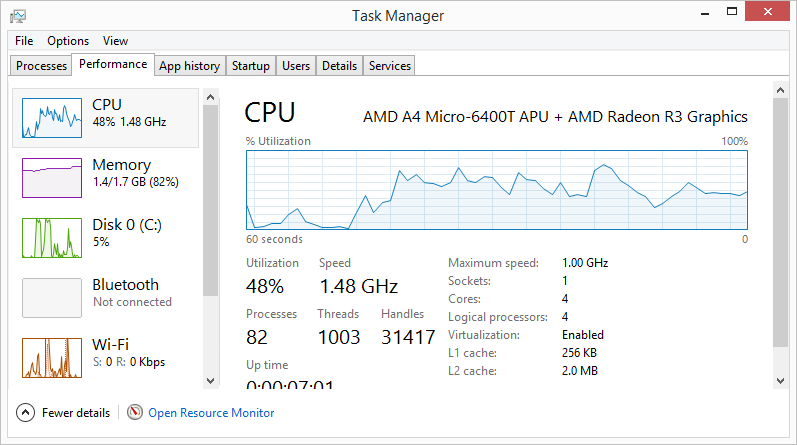
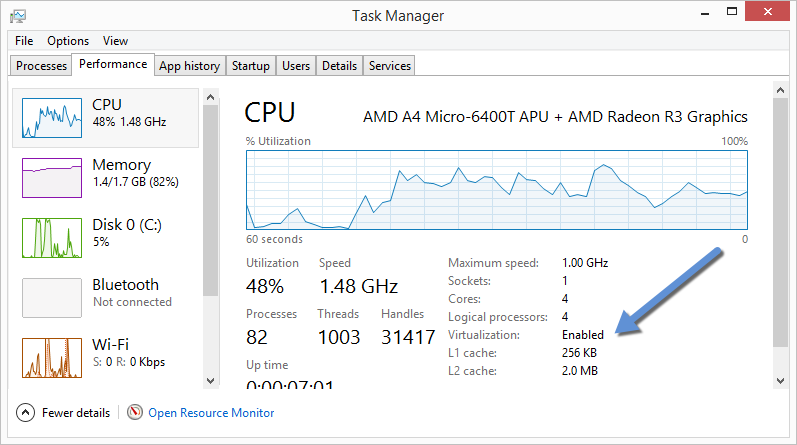
Entering comments from Windows user Carol

Changed region(s): [[0.7528, 0.5551, 0.9335, 0.7596]]

diff --git a/content/windows/step_four.md b/content/windows/step_four.md
@@ -31,10 +31,10 @@ If you don't already have a terminal open, open one now:
 
 ## Step 2. Write a Dockerfile
 
-In this step, you use the Mac Notepad program to write a short Dockerfile.  A
-Dockerfile describes the software that is "baked" into an image. It isn't just
-ingredients tho, it can tell the software what environment to use or what
-commands to run. Your recipe is going to be very short.
+In this step, you use the Windows Notepad applicatin to write a short
+Dockerfile. A Dockerfile describes the software elements that make up an
+image. It isn't just elements though, a Dockerfile can describe what environment
+to use or what commands to run in the container. Your Dockerfile is going to be very short.
 
 1. Place your cursor at the prompt in the Boot2Docker terminal.
 
@@ -50,7 +50,7 @@ commands to run. Your recipe is going to be very short.
 
         $ cd testdocker
 
-3. Create a Dockerfile in the current directory by typing `touch Dockerfile` and pressing RETURN.
+5. Create a Dockerfile in the current directory by typing `touch Dockerfile` and pressing RETURN.
 
     Make sure you use a capital `D` in the file name. Linux file names are case sensitive. 
 
@@ -61,7 +61,7 @@ commands to run. Your recipe is going to be very short.
         $ ls Dockerfile
         Dockerfile
     
-3. Now, type the `notepad Dockerfile&` to open the file in Window's Notepad program (don't forget the `&` ampersand).
+6. Now, type the `notepad Dockerfile&` to open the file in Window's Notepad  (don't forget the `&` ampersand).
     
     ![ampersand](/windows/images/ampersand.png)
     
@@ -69,7 +69,7 @@ commands to run. Your recipe is going to be very short.
     
     ![Edit Dockerfile](/windows/images/note-pad1.png)
 
-3. Type `FROM moxiegirl/whalesay:latest` line into the open file.
+7. Type `FROM moxiegirl/whalesay:latest` line into the open file.
 
     Now, it should look like this.
 
@@ -78,7 +78,7 @@ commands to run. Your recipe is going to be very short.
 	  The `FROM` keyword tells Docker which image your image is based on. You
     are basing your new work on the existing `whalesay` image. 
 		
-4. Now, add the `fortunes` program to the image.
+8. Now, add the `fortunes` program to the image.
 
 	 ![Line two](/windows/images/note-pad3.png)
 	 
@@ -88,22 +88,22 @@ commands to run. Your recipe is going to be very short.
 	 cryptic to you, don't worry. As long as you type the words correctly, they
 	 will work for you!
 	 
-5. Once the image has the software it needs, you instruct the software to run
+9. Once the image has the software it needs, you instruct the software to run
 when the image is loaded.
 
 	![Line two](/windows/images/note-pad4.png)
 
  	This line tells the `fortune` program to send its nifty quotes to the `cowsay` program.
 		
-6. Save your work and the Dockerfile by choosing **File > Save** from the Notepad menu.
+10. Save your work and the Dockerfile by choosing **File > Save** from the Notepad menu.
 
 	At this point, you have all your software ingredients and behaviors described
 	in a Dockerfile. You are ready to build a new image.
 
-7. Place your cursor back in your Boot2Docker terminal.
+11. Place your cursor back in your Boot2Docker terminal.
 
 
-8. Make sure the Dockerfile is in the current directory by typing `cat Dockerfile`
+12. Make sure the Dockerfile is in the current directory by typing `cat Dockerfile`
 
         $ cat Dockerfile
         FROM moxiegirl/whalesay:latest
@@ -112,7 +112,7 @@ when the image is loaded.
 
         CMD /usr/games/fortune -a | cowsay
 
-9. Now, build your new image by typing  `docker build -t docker-whale .` and pressing RETURN.
+13. Now, build your new image by typing  `docker build -t docker-whale .` and press RETURN.
 
     Don't forget the . period it is part of the command.
 
@@ -144,7 +144,7 @@ download it.
     Step 0 : FROM moxiegirl/whalesay:latest
      ---> fb434121fc77
 
-Docker moves onto the next step which is to update the `apt-get` package
+Docker moves to the next step which is to update the `apt-get` package
 manager. This takes a lot of lines, no need to list them all again here.
 
     Step 1 : RUN apt-get -y update && apt-get install -y fortunes

diff --git a/content/windows/step_one.md b/content/windows/step_one.md
@@ -1,5 +1,5 @@
 +++
-title = "Install Docker on Windows"
+title = "Install Docker for Wiindows"
 description = "Getting started with Docker"
 keywords = ["install, demo, Docker, windows"]
 [menu.windows]
@@ -7,12 +7,13 @@ identifier = "windows_install"
 weight = 1
 +++
 
-# Install Docker Windows
+# Install Docker for Windows
 
 Because Docker relies on Linux-specific features, you can't run Docker natively
-in OS X. Instead, you must install the Boot2Docker application. The application
-installs a VirtualBox Virtual Machine (VM), Docker itself, and the Boot2Docker
-management tool. These three things allow you to run Docker on Windows.
+in Windows. Instead, you must install the Boot2Docker application. The
+application installs a VirtualBox Virtual Machine (VM), Docker itself, and the
+Boot2Docker management tool. These three things allow you to run Docker on
+Windows.
 
 ## Step 1: Check your version
 
@@ -26,7 +27,7 @@ To find out what version of Windows you have:
     If you aren't using a supported version, you could consider upgrading your
     operating system.
 
-2. Make sure your Windows machine supports Hardware Virtualization Technology and that virtualization is enabled.
+2. Make sure your Windows system supports Hardware Virtualization Technology and that virtualization is enabled.
 
     #### For Windows 8 or 8.1
 
@@ -35,7 +36,7 @@ To find out what version of Windows you have:
 
       ![Release page](/windows/images/virtualization.png)
     
-    If virtualization is not enabled, follow your machine manufacturer's instructions for enabling it.
+    If virtualization is not enabled on your system, follow the manufacturer's instructions for enabling it.
     
     ### For Windows 7 
     
@@ -72,7 +73,7 @@ If you have a previous version of VirtualBox installed, do not reinstall it with
 
 	  Accept all the installer defaults. The installer takes a few minutes to install all the components:
 	  
-	   ![Release page](/windows/images/win_installer.png)
+	   ![Release page](/windows/images/win_installing.png)
         
 5.  When notified by Windows Security the installer will make changes, make sure you allow the installer to make the necessary changes.
     
@@ -83,7 +84,7 @@ If you have a previous version of VirtualBox installed, do not reinstall it with
 6. Press **Finish**.
 
 
-## Step 4. Verify your installation
+## Step 3. Verify your installation
 
 The installer places Boot2Docker and VirtualBox in your **Applications** folder.
 In this step, you start Boot2Docker and run a simple Docker command.
@@ -96,7 +97,7 @@ In this step, you start Boot2Docker and run a simple Docker command.
 
     If the system displays a **User Account Control** prompt to allow VirtualBox to make changes to your computer. Choose **Yes**.
 
-    The terminal does a number of things to set up Boot2Docker for you. When it is done, it displays an waiting `$` prompt in the terminal window.
+    The terminal does several things to set up Boot2Docker for you. When it is done, the terminal displays the `$` prompt.
     
      ![Desktop](/windows/images/b2d_shell.png)
      
@@ -145,5 +146,6 @@ In this step, you start Boot2Docker and run a simple Docker command.
 
 ## Where to go next
 
-At this point, you have successfully installed Docker. Leave the Boot2Docker window open.
-Then, go onto [read a very short explainer Docker images and containers](/windows/step_two).
+At this point, you have successfully installed Docker. Leave the Boot2Docker
+window open. Go to the next page to [read a very short introduction to Docker
+images and containers](/windows/step_two).

diff --git a/content/linux/started.md b/content/linux/started.md
@@ -1,18 +1,16 @@
 +++
 title = "Get Started with Docker"
 description = "Getting started with Docker"
-keywords = ["beginner, tutorial, Docker"]
+keywords = ["beginner, getting started, Docker"]
 [menu.linux]
 identifier = "linux_getstarted"
 +++
 
 # Get Started with Docker for Linux
 
-##### This getting started is intended for users on Linux systems such as Ubuntu. Not your operating system? You can choose the getting started for [Mac OS X](/mac/started) or [Windows](/windows/started).
+##### This is written for users of Linux distribution such as Ubuntu. If you are not using Linux, see the [Windows](/windows/started) or [Mac OS X](/mac/started) version.
 
-This getting started introduces fundamental Docker features by guiding you
-through some simple tasks. It takes approximately 45 minutes to complete. You'll
-learn how to:
+This getting started is for non-technical users who are interested in learning about Docker. By following this getting started, you'll learn fundamental Docker features by performing some simple tasks. You'll learn how to:
 
 * install Docker
 * run a software image in a container
@@ -22,17 +20,14 @@ learn how to:
 * create an image of your own
 * push your image to Docker Hub for others to use
 
-The getting started was user tested to reduce the chance of users having problems. For the best chance of success, you should follow the steps as written the first time before exploring on your own.
+The getting started was user tested to reduce the chance of users having problems. For the best chance of success, follow the steps as written the first time before exploring on your own. It takes approximately 45 minutes to complete.
 
 
 ### Make sure you understand...
 
-This getting started is for users entirely new to Docker. Users who are non-technical and perhaps just investigating Docker are the target audience.
-
-This getting started uses Docker commands with a terminal window. Docker from
-the command line is supported on all major OS distributions. You don't need to
-be experienced using a command line, but you should be familiar with how to open
-one and type commands.
+This getting started uses Docker commands with a terminal window. You don't need
+to be experienced using a command line, but you should be familiar with how to
+open one and type commands.
 
 Go to [the next page to install](/linux/step_one).
 

diff --git a/content/mac/started.md b/content/mac/started.md
@@ -8,11 +8,9 @@ identifier = "mac_getstarted"
 
 # Get Started with Docker for Mac OS X
 
-##### This getting started is intended for users on Mac OS X systems such as Ubuntu. Not your operating system? You can choose the getting started for [Linux](/linux/started) or [Windows](/windows/started).
+##### This is written for users of Mac OS X. If you are not using Mac OS X, see the [Linux](/linux/started) or [Windows](/windows/started) version.
 
-This getting started introduces fundamental Docker features by guiding you
-through some simple tasks. It takes approximately 45 minutes to complete. You'll
-learn how to:
+This getting started is for non-technical users who are interested in learning about Docker. By following this getting started, you'll learn fundamental Docker features by performing some simple tasks. You'll learn how to:
 
 * install Docker
 * run a software image in a container
@@ -22,19 +20,17 @@ learn how to:
 * create an image of your own
 * push your image to Docker Hub for others to use
 
-The getting started was user tested to reduce the chance of users having problems. For the best chance of success, you should follow the steps as written the first time before exploring on your own.
+The getting started was user tested to reduce the chance of users having problems. For the best chance of success, follow the steps as written the first time before exploring on your own. It takes approximately 45 minutes to complete.
 
 
 ### Make sure you understand...
 
-This getting started is for users entirely new to Docker. Users who are non-technical and perhaps just investigating Docker are the target audience.
-
-This getting started uses Docker commands with a terminal window. Docker from
-the command line is supported on all major OS distributions. You don't need to
-be experienced using a command line, but you should be familiar with how to open
-one and type commands.
+This getting started uses Docker commands with a terminal window. You don't need
+to be experienced using a command line, but you should be familiar with how to
+open one and type commands.
 
 Go to [the next page to install](/mac/step_one).
+
 
 
 	

diff --git a/content/windows/started.md b/content/windows/started.md
@@ -8,11 +8,9 @@ identifier = "windows_getstarted"
 
 # Get Started with Docker for Windows
 
-##### This getting started is intended for users on Linux systems such as Ubuntu. Not your operating system? You can choose the getting started for [Linux](/linux/started) or [Mac OS X](/mac/started).
+##### This is written for users of Windows. If you are not using Windows, see the [Linux](/linux/started) or [Mac OS X](/mac/started) version.
 
-This getting started introduces fundamental Docker features by guiding you
-through some simple tasks. It takes approximately 45 minutes to complete. You'll
-learn how to:
+This getting started is for non-technical users who are interested in learning about Docker. By following this getting started, you'll learn fundamental Docker features by performing some simple tasks. You'll learn how to:
 
 * install Docker
 * run a software image in a container
@@ -22,17 +20,14 @@ learn how to:
 * create an image of your own
 * push your image to Docker Hub for others to use
 
-The getting started was user tested to reduce the chance of users having problems. For the best chance of success, you should follow the steps as written the first time before exploring on your own.
+The getting started was user tested to reduce the chance of users having problems. For the best chance of success, follow the steps as written the first time before exploring on your own. It takes approximately 45 minutes to complete.
 
 
 ### Make sure you understand...
 
-This getting started is for users entirely new to Docker. Users who are non-technical and perhaps just investigating Docker are the target audience.
-
-This getting started uses Docker commands with a terminal window. Docker from
-the command line is supported on all major OS distributions. You don't need to
-be experienced using a command line, but you should be familiar with how to open
-one and type commands.
+This getting started uses Docker commands with a terminal window. You don't need
+to be experienced using a command line, but you should be familiar with how to
+open one and type commands.
 
 Go to [the next page to install](/windows/step_one).
 

diff --git a/content/windows/step_six.md b/content/windows/step_six.md
@@ -38,7 +38,7 @@ If you don't already have a terminal open, open one now:
       moxiegirl/whalesay   latest       fb434121fc77        4 hours ago         247 MB
       hello-world          latest       91c95931e552        5 weeks ago         910 B
 		
-3. Find the `IMAGE ID` for your `docker-whale` image. 
+6. Find the `IMAGE ID` for your `docker-whale` image. 
 
 	In this example, the id is `7d9495d03763`.
 
@@ -47,7 +47,7 @@ If you don't already have a terminal open, open one now:
 	Docker Hub to associate it with your account.  The `namespace` is the same as
 	your account name.
 
-6. Use `IMAGE ID` and the `docker tag` command to tag your `docker-whale` image.
+7. Use `IMAGE ID` and the `docker tag` command to tag your `docker-whale` image.
 
     The command you type looks like this:
     
@@ -58,7 +58,7 @@ If you don't already have a terminal open, open one now:
 
 		$ docker tag 7d9495d03763 maryatdocker/docker-whale:latest
 	
-7. Type the `docker images` command again to see your newly tagged image.
+8. Type the `docker images` command again to see your newly tagged image.
 
         $ docker images
         REPOSITORY                  TAG       IMAGE ID        CREATED          VIRTUAL SIZE
@@ -80,7 +80,7 @@ If you don't already have a terminal open, open one now:
         WARNING: login credentials saved in /Users/mary/.dockercfg.
         Login Succeeded
 
-8. Type the `docker push` command to push your image to your new repository.
+10. Type the `docker push` command to push your image to your new repository.
 
 	The `docker push` command includes the image and the image build context. If
 	you have followed these instructions, that context is the `testdocker` folder
@@ -111,7 +111,7 @@ If you don't already have a terminal open, open one now:
         e9e06b06e14c: Image successfully pushed 
         Digest: sha256:ad89e88beb7dc73bf55d456e2c600e0a39dd6c9500d7cd8d1025626c4b985011
 			
-9. Return to your profile on Docker Hub to see your new image.
+11. Return to your profile on Docker Hub to see your new image.
 
 	 ![New image](/img/new_image.png)
 	

diff --git a/content/windows/step_three.md b/content/windows/step_three.md
@@ -9,7 +9,7 @@ weight = 3
 
 # Find and run the whalesay image 
 
-People all over the world create Docker images. You can find these images by browsing the Docker Hub. In this next section, you'll do just that to find the image to use in the rest of this getting started.
+People all over the world create Docker images. You can find these images by browsing the Docker Hub. In this next section, you'll search for and find the image you'll use in the rest of this getting started.
 
 ## Step 1: Open a Boot2Docker terminal 
 
@@ -41,7 +41,7 @@ If you don't already have a terminal open, open one now:
 
      ![Whalesay image](/img/image_found.png)
 
-4. Click on the **moxiegirl/whalesay** image in the results.
+4. Click **moxiegirl/whalesay** in the results.
 
     The browser displays the repository for the **whalesay** image. 
    
@@ -136,4 +136,5 @@ On this page, you learned to search for images on Docker Hub. You used your
 command line to run an image. Think about it, effectively you ran a piece of
 Linux software on your Mac computer.  You learned that running an image copies
 it on your computer.  Now, you are ready to create your own image with Docker.
-Go on to the next part [to build your own image](/windows/step_four).
+
+On the next page you learn how [to build your own image](/windows/step_four).
